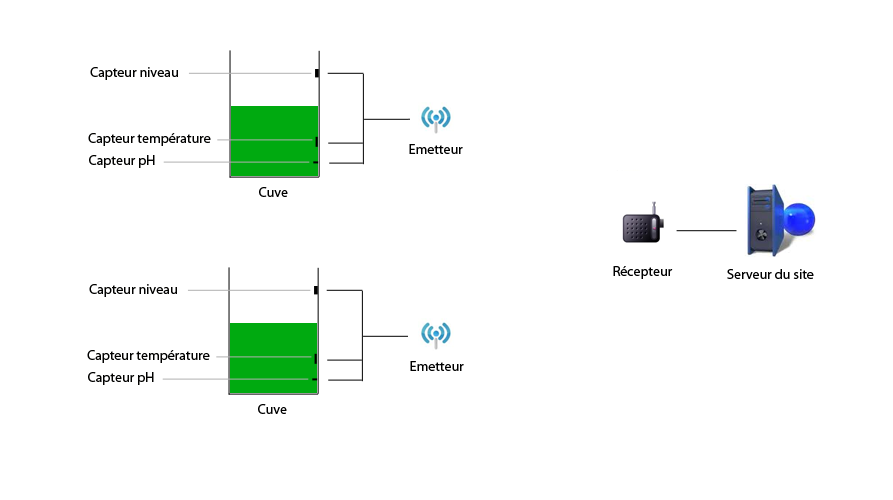
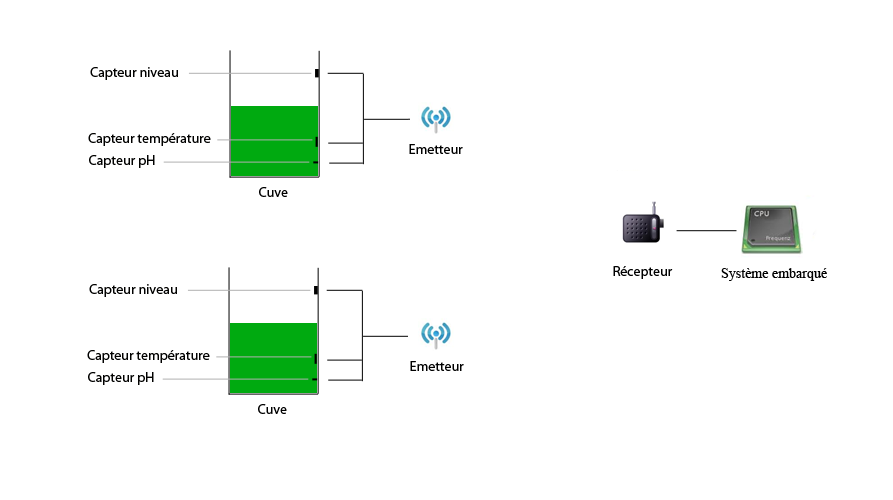
Changement des images + serveur -> système embarqué

Changed region(s): [[0.8163, 0.36, 0.9373, 0.51], [0.7861, 0.54, 0.9373, 0.57]]

diff --git a/solution_archi.md b/solution_archi.md
@@ -21,10 +21,10 @@ a. Capteurs
   <dt>Introduction</dt>
   <dd>
   Pour permettre une transmission des informations au site central, les données récupérées par les capteurs devront tout d'abord être transmises 
-   au serveur du site. Pour cela, il y a deux problématiques principales auxquelles il faut répondre : gérer la transmission des données, et s'assurer
+   au système embarqué. Pour cela, il y a deux problématiques principales auxquelles il faut répondre : gérer la transmission des données, et s'assurer
    de l'apport en énergie aux différents appareils.
    
-  Diverses contraintes rendent ces opérations difficiles : la taille des sites (faisant de 100m à 1km, ce qui fait une distance importante entre le serveur
+  Diverses contraintes rendent ces opérations difficiles : la taille des sites (faisant de 100m à 1km, ce qui fait une distance importante entre le système embarqué
    et les capteurs), le relief accidenté des sites, et le froid reignant dans le nord de la Norvège.
   </dd>
   <dd>
@@ -42,11 +42,11 @@ a. Capteurs
   
 <dl>
   <dd>
-  Cette solution consiste à installer un serveur sur le site et à le relier directement à chacune des cuves par des cables électriques
+  Cette solution consiste à installer un système embarqué sur le site et à le relier directement à chacune des cuves par des cables électriques
   </dd>
   <dd>
   Les principaux avantages de cette solution résident dans son utilisation peu coûteuse ; Ses capteurs étant directement reliés au réseau, 
-   il n'y a pas besoin de source d'énergie autre que celle du serveur. De plus, son nombre limité d'appareils limite les risques de pannes 
+   il n'y a pas besoin de source d'énergie autre que celle du système embarqué. De plus, son nombre limité d'appareils limite les risques de pannes 
    et donc de coupure du réseau et de frais de maintenance.
   </dd>
   <dd>
@@ -54,12 +54,12 @@ a. Capteurs
    pour chacun à l'équivalent d'une pile AAA par an si on effectue une mesure par heure.
   </dd>
   <dd>
-  Cette approche présente cependant un certain nombre de limites, notamment celle liées à la complexité d'installation. En effet, le serveur pouvant
+  Cette approche présente cependant un certain nombre de limites, notamment celle liées à la complexité d'installation. En effet, le système embarqué pouvant
    être assez éloigné des cuves, il faudra parfois tirer un cable de 1km, pouvant poser des difficultés d'installation (et des frais importants) en fonction
    des terrains. Ces frais résultent de deux facteurs : le premier est le coût matériel, c'est à dire le cable électrique, et le second vient du temps passé par
    des ouvriers qualifiés qui se traduit par un salaire à verser. Ces ouvriers (qu'on considère comme qualifiés, et auxquels on attribue un salaire de 13 euros l'heure)
    passeront en effet un temps fixe pour chaque cuve pour l'installation des capteurs et leur raccordement (on estime à 2 heures le temps passé par cuve), ce à quoi il faut rajouter
-   un temps variable en fonction de la distance de la cuve au serveur qu'ils passeront pour tirer le cable et s'assurer qu'il ne risque rien.
+   un temps variable en fonction de la distance de la cuve au système embarqué qu'ils passeront pour tirer le cable et s'assurer qu'il ne risque rien.
   </dd>
 </dl>
    __Par cuve__ : ~ 150€ + 100€/100m
@@ -80,18 +80,18 @@ a. Capteurs
   
 <dl>
   <dd>
-  Cette solution consistant à installer une borne radio (reliée aux différents capteurs) par cuve permettant de communiquer avec le serveur et un récepteur du côté du serveur a l'avantage d'avoir des coûts fixes : on ne payera pas plus cher 
+  Cette solution consistant à installer une borne radio (reliée aux différents capteurs) par cuve permettant de communiquer avec le système embarqué et un récepteur du côté du système embarqué a l'avantage d'avoir des coûts fixes : on ne payera pas plus cher 
    pour une cuve éloignée de 1km que pour une éloignée de 20m. Cette solution présente un problème de consomation d'énergie : n'étant pas reliée au site, elle doit comporter avec l'émetteur et le microcontrôleur une batterie pour faire fonctionner 
    non seulement les capteurs mais aussi les appareils de communications. De plus, un peu d'énergie sera gaspillée pour réchauffer ces appareils afin d'éviter que le froid ne les empêche de fonctionner.
   </dd>
   <dd>
   Pour économiser l'énergie passant dans la communication, nous avons prévu de mettre en place des fenêtres de temps au cours desquelles la radio emettra les données des capteurs. Nous avons ainsi estimé que l'appareil ne devrait fonctionner
-   que 2 minutes par heures pour pouvoir envoyer des données suffisantes au serveur. Au niveau du chauffage, l'économie se fera grâce à une isolation efficace des appareils : nous avons déterminé qu'un abri en polyuréthane serait suffisant pour que
+   que 2 minutes par heures pour pouvoir envoyer des données suffisantes au système embarqué. Au niveau du chauffage, l'économie se fera grâce à une isolation efficace des appareils : nous avons déterminé qu'un abri en polyuréthane serait suffisant pour que
    le chauffage ne doive fonctionner qu'une moyenne de 10 minutes par jour. Au vu de ces données, nous estimons le temps d'autonomie de chaque cuve munie d'une batterie adaptée à environ 1 an, ce qui laisse un délai résonnable pour le changement de batterie.
   </dd>
   <dd>
-  L'avantage principal de cette solution est sa facilité d'installation et un coût relativement limité lors de la pose sur des cuves éloignées du serveur. Cependant, elle présente de nombreux points limitant son utilisation : pour commencer,
-   elle n'est rentable qu'à partir d'une certaine distance, une communication par ondes n'étant bien évidement pas nécessaire pour des cuves situées à 10m du serveur. Ensuite, cette solution pose un problème d'autonomie des appareils : en effet,
+  L'avantage principal de cette solution est sa facilité d'installation et un coût relativement limité lors de la pose sur des cuves éloignées du système embarqué. Cependant, elle présente de nombreux points limitant son utilisation : pour commencer,
+   elle n'est rentable qu'à partir d'une certaine distance, une communication par ondes n'étant bien évidement pas nécessaire pour des cuves situées à 10m du système embarqué. Ensuite, cette solution pose un problème d'autonomie des appareils : en effet,
     les capteurs n'étant plus reliés électriquement au site, il doivent trouver une source d'énergie autre. Pour celà, l'utilisation d'une batterie peut s'avérer concluante, mais nécessite tout de même un changement occasionnel. Cependant, des accords
 	avec les sociétés de maintenance pourraient être trouvés : le système leur permettant d'économiser des trajets, celles-ci pourraient faire un geste et s'occuper du changement des batteries annuel sans modification du contrat. Le dernier problème de cette
 	solution peut venir de la configuration du site : le terrain peut être accidenté et gêner la progression des ondes. Par ailleurs, le froid risque de geler les appareils de transmission, des mesures (assez coûteuses) devant être prises pour éviter cela.
